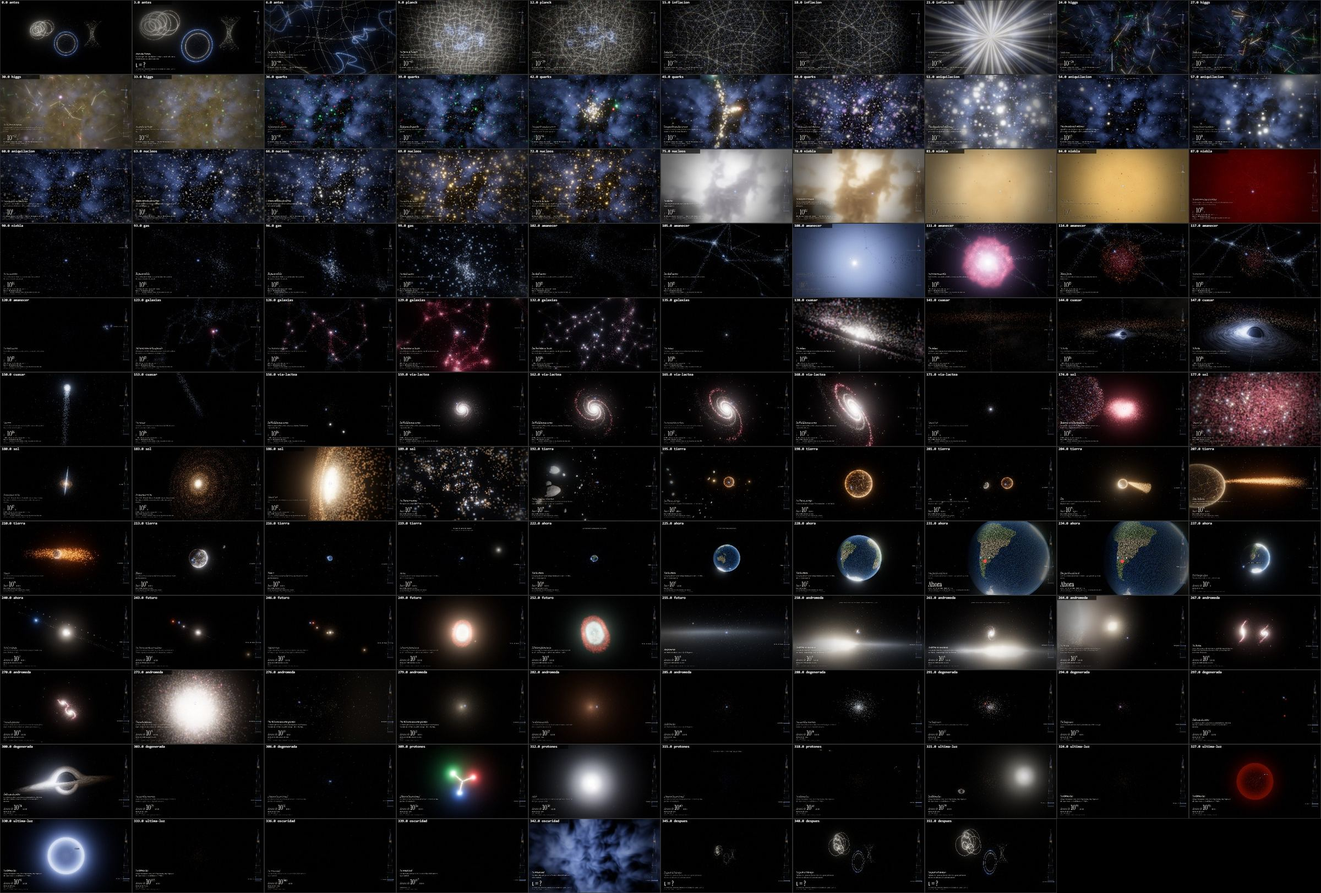
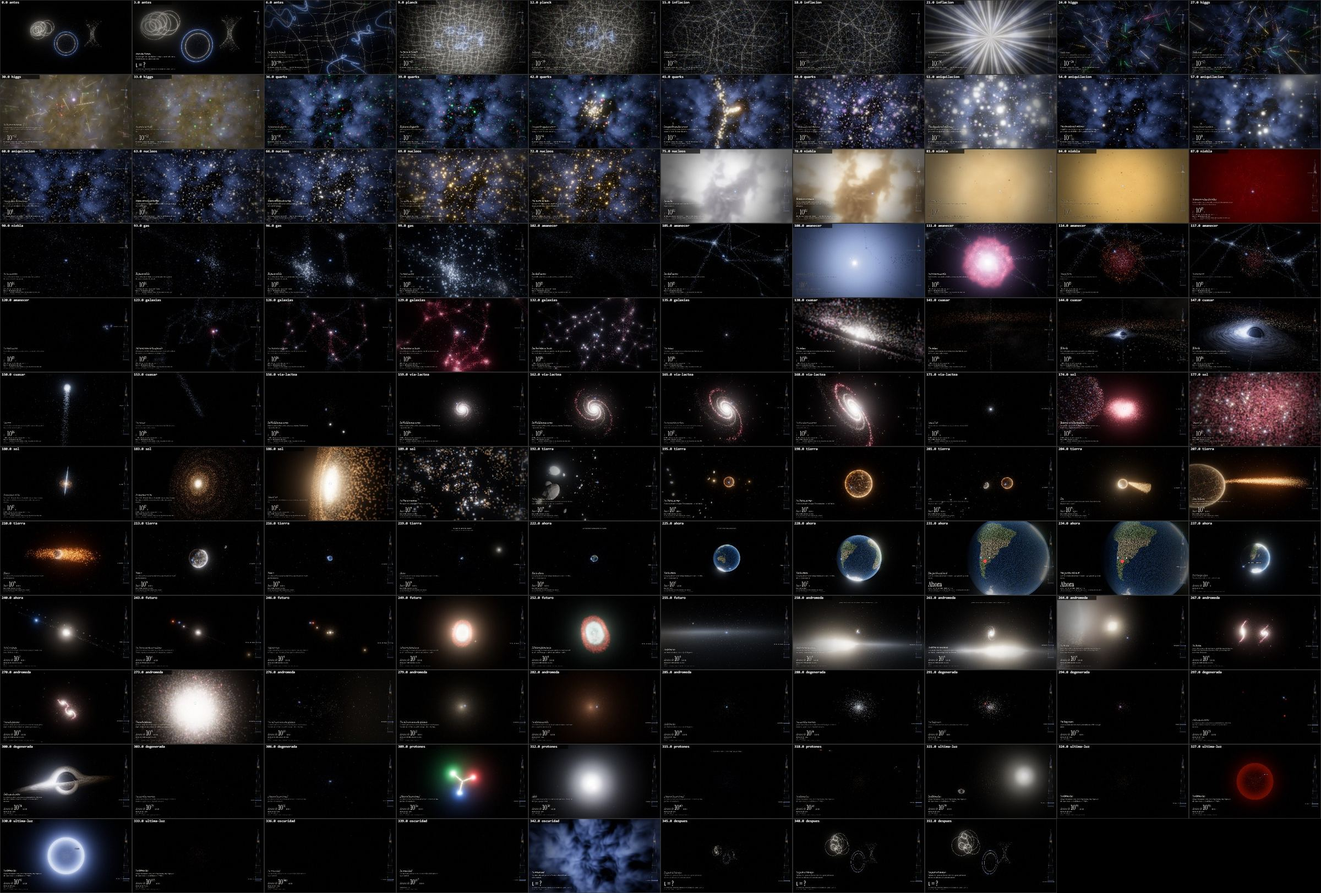
fix(ending): no blue flare while the clock returns to t = ?
Arriving after time, an era without a sky drops it at once; before, the
clock's way back through hot times lit it up for a moment.

diff --git a/src/eras/provisional.ts b/src/eras/provisional.ts
@@ -100,8 +100,10 @@ export function provisional(o: ProvisionalOpts): EraModule {
       const clock = { reloj: o.reloj.reloj, [track]: o.reloj.from };
       if (era.index === 0) tl.set({ era: 0, e: era.home + e0, fov: o.fov ?? 50, fondo: o.fondo ?? 1, horno: o.horno ?? 0, ...clock });
       else {
-        // The clock switches mode at the start of the arrival (a step, never a blend between modes).
-        tl.with(0.02, { reloj: o.reloj.reloj });
+        // The clock switches mode at the start of the arrival (a step, never a blend between modes);
+        // an era without a sky drops it at once (else the clock's way back through hot times would
+        // light it up on the way).
+        tl.with(0.02, { reloj: o.reloj.reloj, ...(o.fondo === 0 ? { fondo: 0 } : {}) });
         tl.to(o.arrive, { era: era.index, e: era.home + e0, fov: o.fov ?? 50, fondo: o.fondo ?? 1, horno: o.horno ?? 0, yaw: 0, pitch: 0, roll: 0, [track]: o.reloj.from });
       }
       tl.label(era.id);
